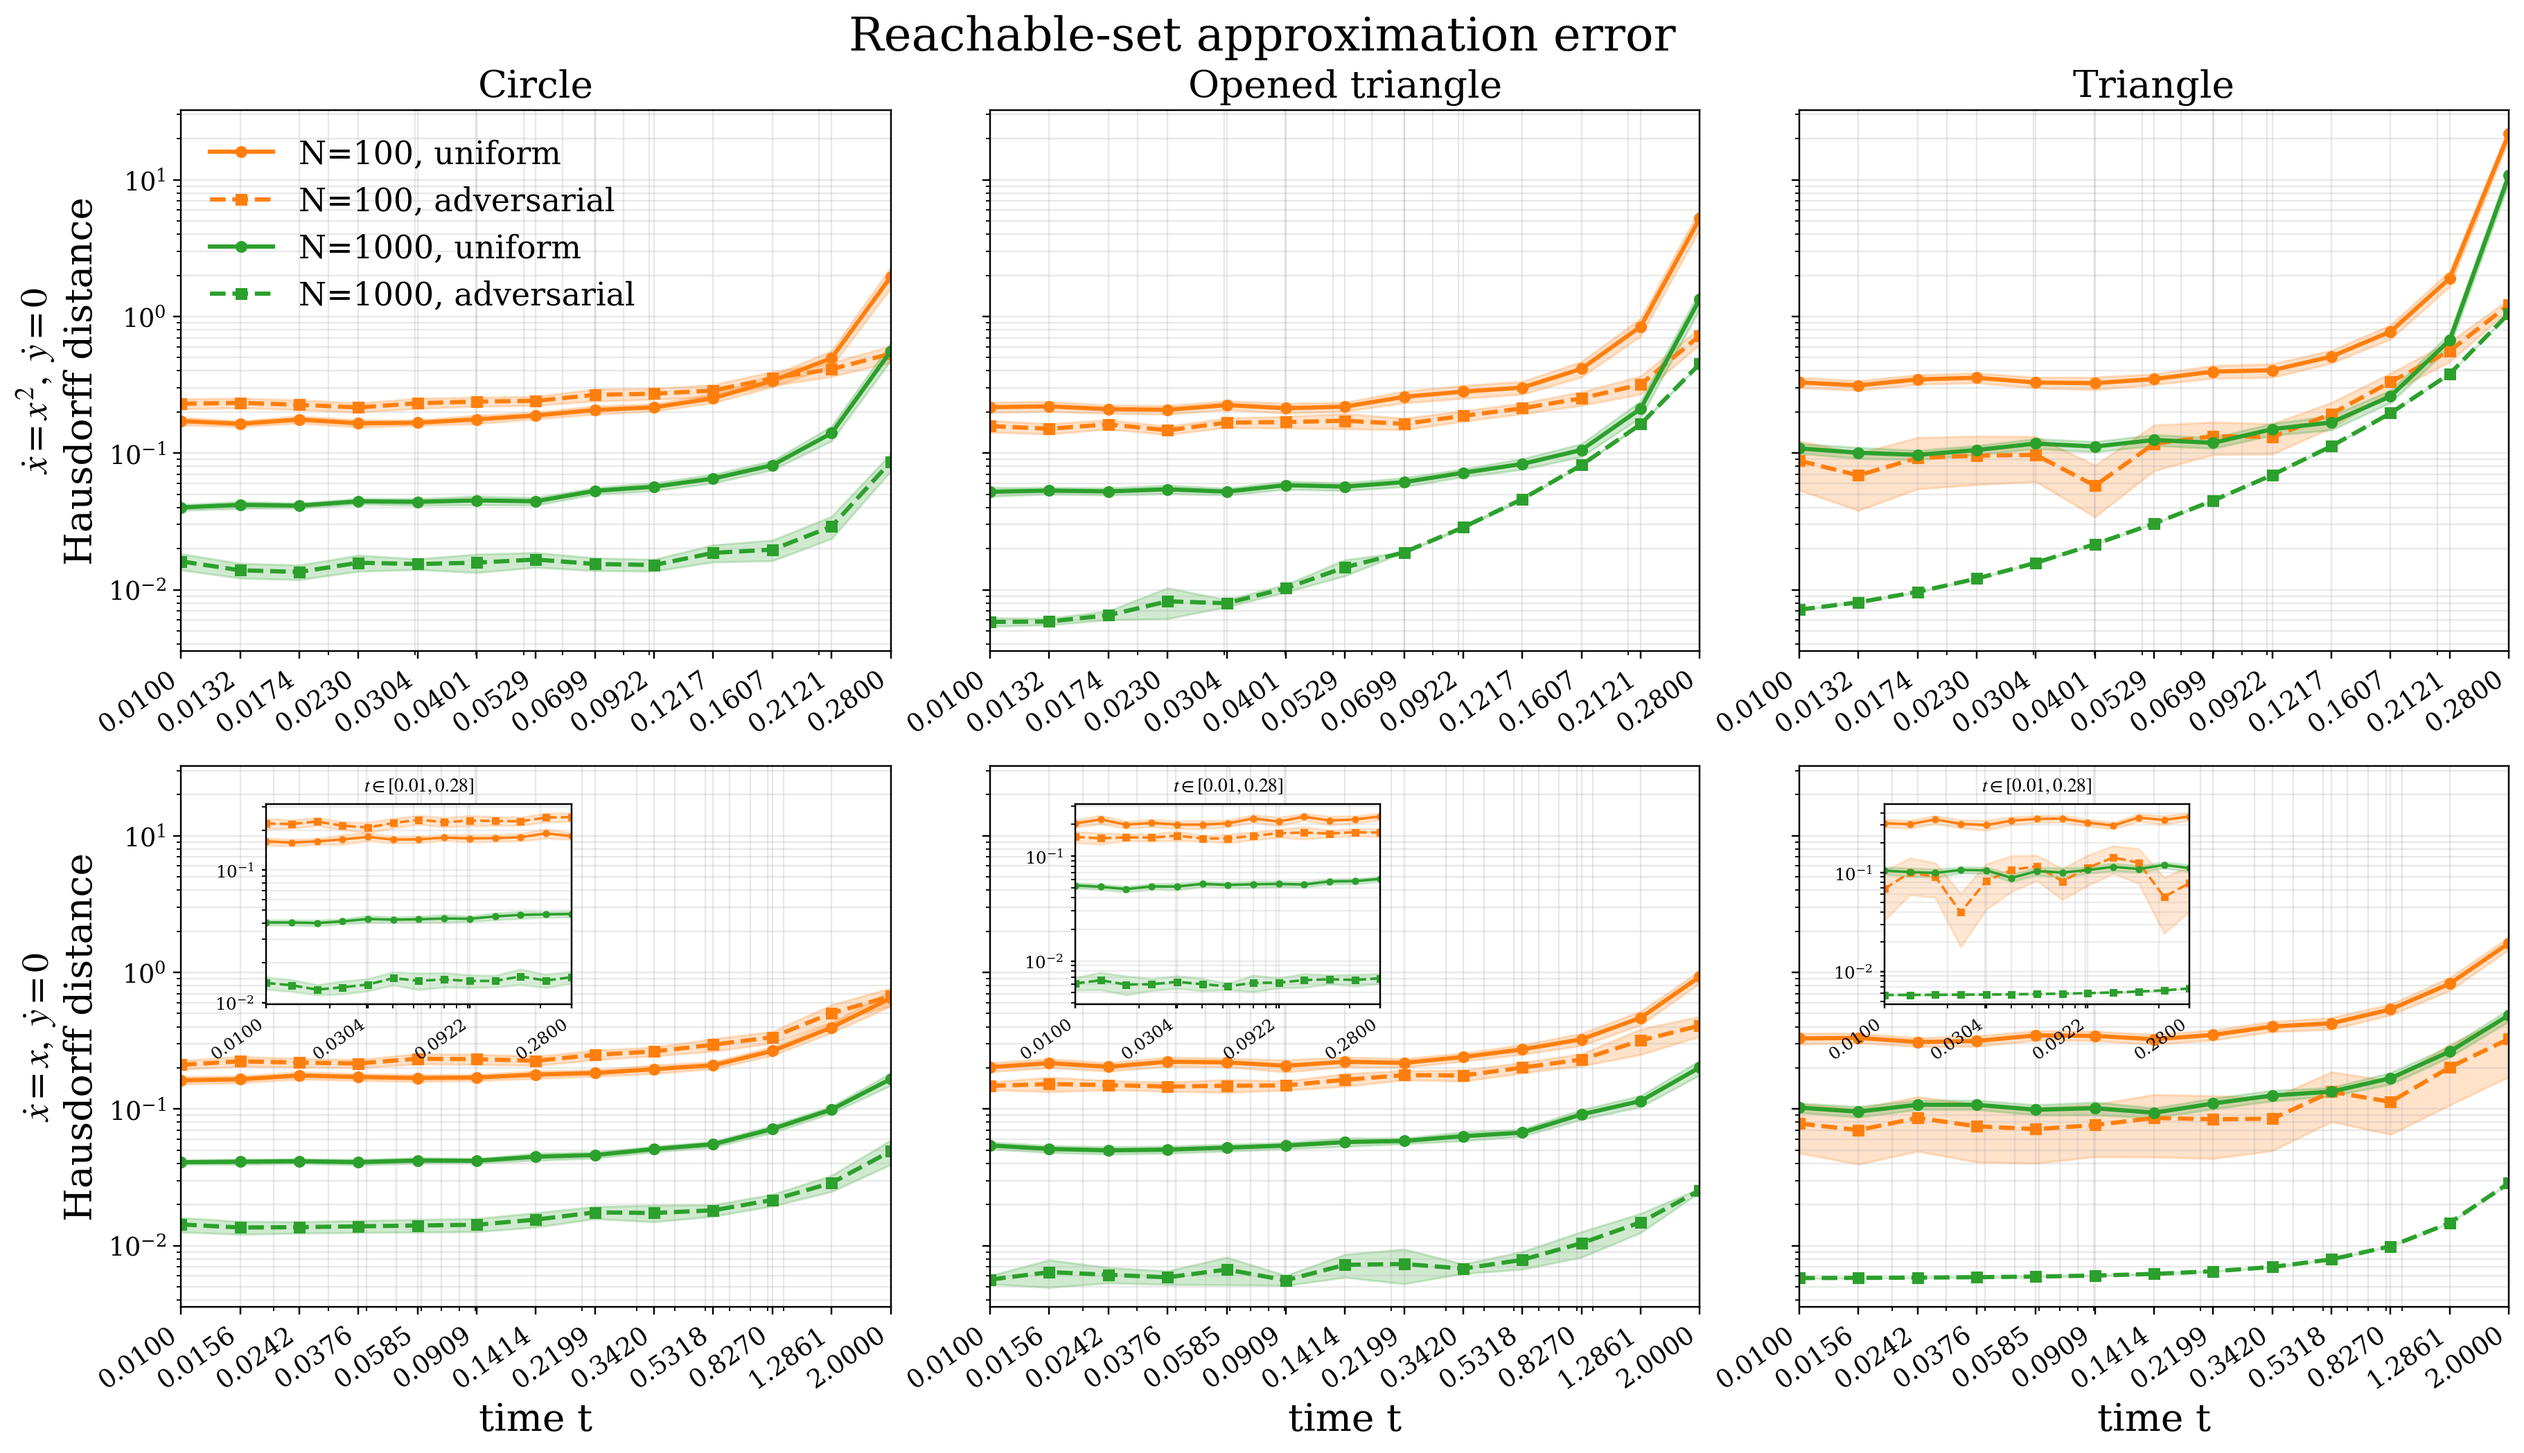
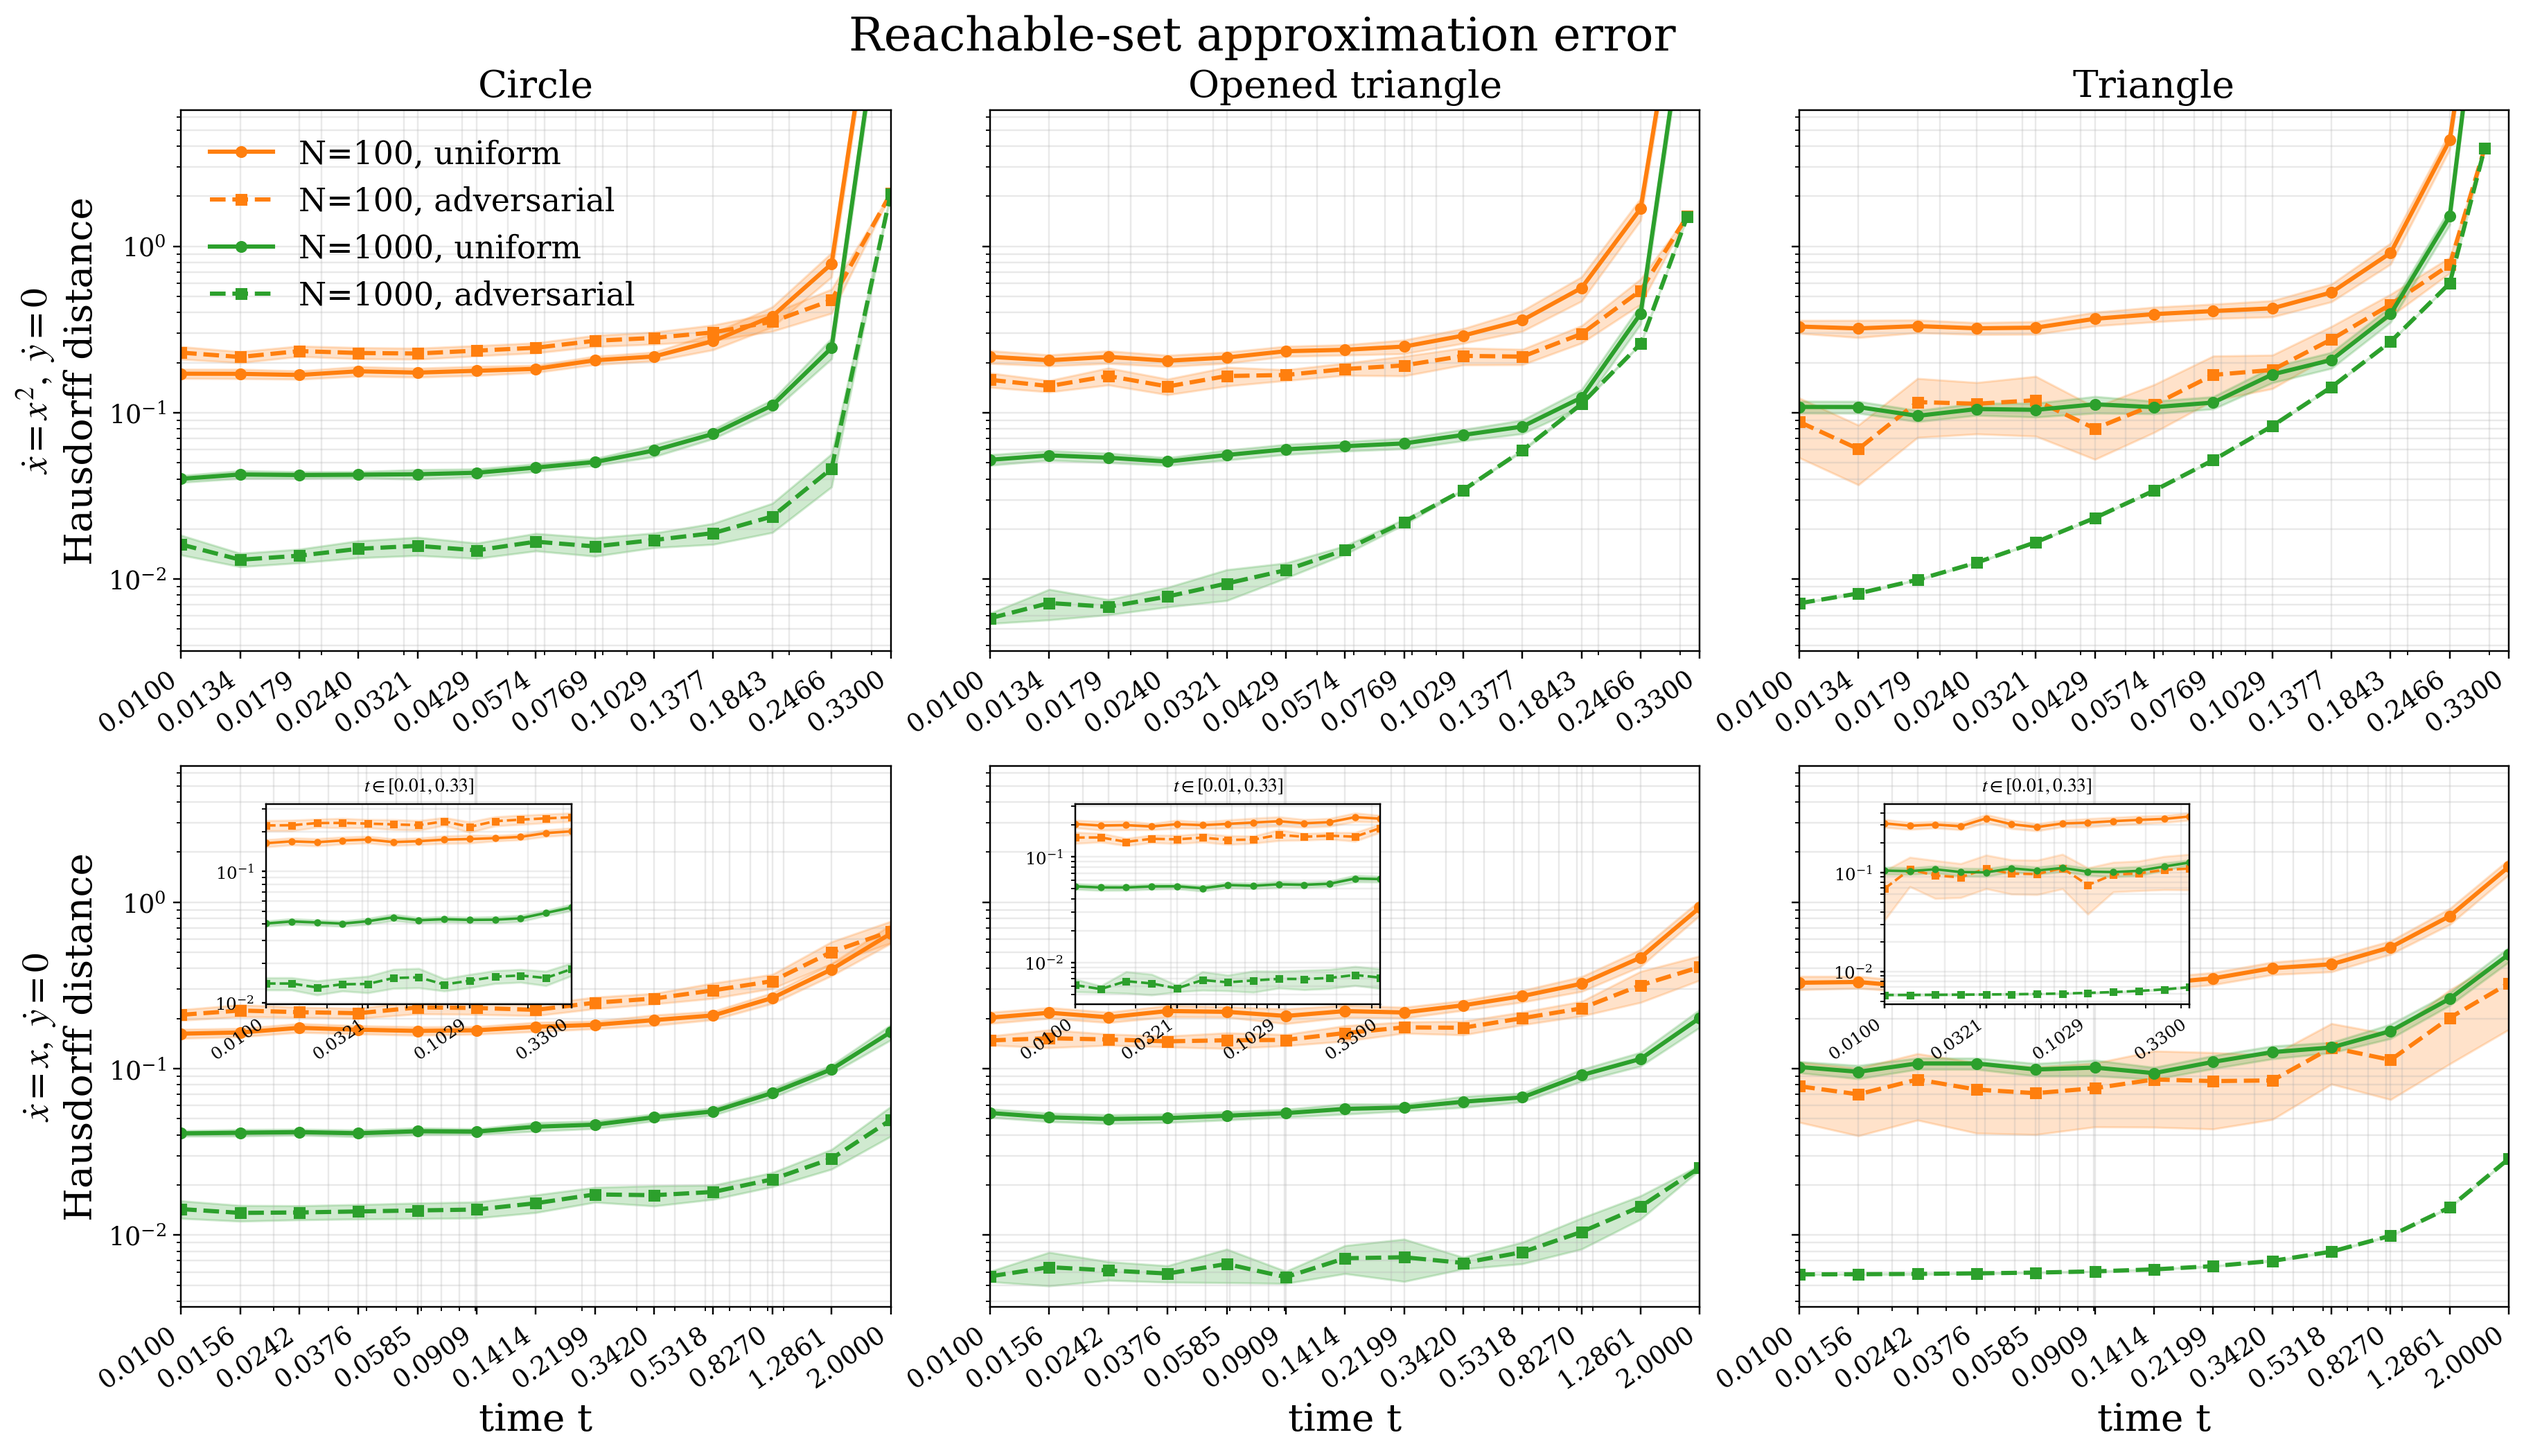
linear dynamic

diff --git a/exp/quaddynadv/quaddyn_adv_experiment.py b/exp/quaddynadv/quaddyn_adv_experiment.py
@@ -23,8 +23,10 @@ from reachapprox import utils as ru
 
 
 SAMPLE_BUDGETS = (100, 1000)
-TIME_GRID = tuple(float(t) for t in np.geomspace(0.01, 0.28, 13))
+TIME_GRID = tuple(float(t) for t in np.geomspace(0.01, 0.33, 13))
 LINEAR_TIME_GRID = tuple(float(t) for t in np.geomspace(0.01, 2.0, 13))
+Y_SCALE_TIME_MAX = 0.28
+NEAR_EXPLOSION_FRACTION = 0.98
 TIME_SWEEP_TRIALS = 50
 REFERENCE_SAMPLES = 60_000
 CHRISTOFFEL_REFERENCE_SAMPLES = 12_000
@@ -87,10 +89,20 @@ def main_time_grid(dynamics: DynamicsSpec) -> tuple[float, ...]:
     return LINEAR_TIME_GRID if dynamics.name == "linear" else TIME_GRID
 
 
-def sweep_time_grids(dynamics: DynamicsSpec) -> tuple[tuple[str, tuple[float, ...]], ...]:
+def add_near_explosion_time(dynamics: DynamicsSpec, item: ru.InitialSet, time_grid: tuple[float, ...]) -> tuple[float, ...]:
+    if dynamics.name != "quadratic" or item.name == "disk":
+        return time_grid
+
+    near_explosion_time = NEAR_EXPLOSION_FRACTION / ru.max_x(item.geom)
+    if near_explosion_time <= max(time_grid) and all(not np.isclose(near_explosion_time, t) for t in time_grid):
+        return tuple(sorted((*time_grid, float(near_explosion_time))))
+    return time_grid
+
+
+def sweep_time_grids(dynamics: DynamicsSpec, item: ru.InitialSet) -> tuple[tuple[str, tuple[float, ...]], ...]:
     if dynamics.name == "linear":
         return (("main", LINEAR_TIME_GRID), ("inset", TIME_GRID))
-    return (("main", TIME_GRID),)
+    return (("main", add_near_explosion_time(dynamics, item, TIME_GRID)),)
 
 
 def ordered_initial_sets() -> list[ru.InitialSet]:
@@ -300,8 +312,16 @@ def fixed_time_comparison(
 def summarize_trials(values: dict[str, np.ndarray]) -> dict[str, tuple[np.ndarray, np.ndarray, np.ndarray]]:
     curves = {}
     for method, arr in values.items():
-        mean = arr.mean(axis=1)
-        stderr = arr.std(axis=1, ddof=1) / np.sqrt(TIME_SWEEP_TRIALS)
+        valid_counts = np.sum(np.isfinite(arr), axis=1)
+        mean = np.full(arr.shape[0], np.nan, dtype=float)
+        stderr = np.full(arr.shape[0], np.nan, dtype=float)
+        valid_rows = valid_counts > 0
+        mean[valid_rows] = np.nanmean(arr[valid_rows], axis=1)
+        multi_sample_rows = valid_counts > 1
+        stderr[multi_sample_rows] = (
+            np.nanstd(arr[multi_sample_rows], axis=1, ddof=1) / np.sqrt(valid_counts[multi_sample_rows])
+        )
+        stderr[valid_counts == 1] = 0.0
         ci = 1.96 * stderr
         curves[method] = (mean, np.maximum(mean - ci, np.finfo(float).tiny), mean + ci)
     return curves
@@ -386,17 +406,23 @@ def run_multi_dynamics_time_sweep_ci(
     for dynamics in dynamics_specs:
         print(f"\nDynamics: {dynamics.label}")
         for item in initial_sets:
-            for grid_name, time_grid in sweep_time_grids(dynamics):
-                reference_boundaries = {
-                    t: transformed_boundary_for_dynamics(dynamics, item.geom, t)
-                    for t in time_grid
-                }
+            for grid_name, time_grid in sweep_time_grids(dynamics, item):
                 for budget in SAMPLE_BUDGETS:
                     values = {
                         "uniform": np.empty((len(time_grid), TIME_SWEEP_TRIALS), dtype=float),
                         "adversarial": np.empty((len(time_grid), TIME_SWEEP_TRIALS), dtype=float),
                     }
                     for t_index, t in enumerate(time_grid):
+                        try:
+                            reference_boundary = transformed_boundary_for_dynamics(dynamics, item.geom, t)
+                        except ValueError:
+                            values["uniform"][t_index, :] = np.nan
+                            values["adversarial"][t_index, :] = np.nan
+                            print(
+                                f"{dynamics.name:<10} {grid_name:<5} {item.label:<16} t={t:.4f} N={budget:<4d} "
+                                "singular; omitted from plot"
+                            )
+                            continue
                         for trial in range(TIME_SWEEP_TRIALS):
                             uniform_rng = np.random.default_rng(
                                 RANDOM_SEED
@@ -419,10 +445,10 @@ def run_multi_dynamics_time_sweep_ci(
                                 adv_rng, item.geom, dynamics, t, budget
                             )
                             values["uniform"][t_index, trial] = approximate_boundary_hausdorff_fast(
-                                reference_boundaries[t], uniform_hull
+                                reference_boundary, uniform_hull
                             )
                             values["adversarial"][t_index, trial] = approximate_boundary_hausdorff_fast(
-                                reference_boundaries[t], adv_hull
+                                reference_boundary, adv_hull
                             )
 
                         print(
@@ -506,17 +532,30 @@ def plot_multi_dynamics_time_sweep_ci(
     y_upper = 0.0
     for dynamics in DYNAMICS_SPECS:
         for item in initial_sets:
+            item_main_time_grid = dict(sweep_time_grids(dynamics, item))["main"]
             for budget in SAMPLE_BUDGETS:
                 for method in method_styles:
                     mean, lo, hi = curves[(dynamics.name, item.name, method, budget, "main")]
-                    y_lower = min(y_lower, float(np.min(lo)), float(np.min(mean)))
-                    y_upper = max(y_upper, float(np.max(hi)), float(np.max(mean)))
+                    time_mask = np.asarray(item_main_time_grid) <= Y_SCALE_TIME_MAX
+                    if dynamics.name == "linear":
+                        time_mask = np.ones_like(time_mask, dtype=bool)
+                    y_lower = min(y_lower, float(np.min(lo[time_mask])), float(np.min(mean[time_mask])))
+                    y_upper = max(y_upper, float(np.max(hi[time_mask])), float(np.max(mean[time_mask])))
                     if dynamics.name == "linear":
                         inset_mean, inset_lo, inset_hi = curves[
                             (dynamics.name, item.name, method, budget, "inset")
                         ]
-                        y_lower = min(y_lower, float(np.min(inset_lo)), float(np.min(inset_mean)))
-                        y_upper = max(y_upper, float(np.max(inset_hi)), float(np.max(inset_mean)))
+                        inset_time_mask = np.asarray(TIME_GRID) <= Y_SCALE_TIME_MAX
+                        y_lower = min(
+                            y_lower,
+                            float(np.min(inset_lo[inset_time_mask])),
+                            float(np.min(inset_mean[inset_time_mask])),
+                        )
+                        y_upper = max(
+                            y_upper,
+                            float(np.max(inset_hi[inset_time_mask])),
+                            float(np.max(inset_mean[inset_time_mask])),
+                        )
 
     y_lower = max(y_lower * 0.75, np.finfo(float).tiny)
     y_upper = y_upper * 1.35
@@ -524,8 +563,9 @@ def plot_multi_dynamics_time_sweep_ci(
     legend_handles = []
     legend_labels = []
     for row, dynamics in enumerate(DYNAMICS_SPECS):
-        time_grid = main_time_grid(dynamics)
         for col, item in enumerate(initial_sets):
+            time_grid = dict(sweep_time_grids(dynamics, item))["main"]
+            tick_time_grid = main_time_grid(dynamics)
             ax = axes[row, col]
             for budget in SAMPLE_BUDGETS:
                 color = sample_colors[budget]
@@ -550,8 +590,8 @@ def plot_multi_dynamics_time_sweep_ci(
             ax.set_yscale("log")
             ax.set_xlim(min(time_grid), max(time_grid))
             ax.set_ylim(y_lower, y_upper)
-            ax.set_xticks(time_grid)
-            ax.set_xticklabels([f"{t:.4f}" for t in time_grid], rotation=35, ha="right", fontsize=TICK_SIZE)
+            ax.set_xticks(tick_time_grid)
+            ax.set_xticklabels([f"{t:.4f}" for t in tick_time_grid], rotation=35, ha="right", fontsize=TICK_SIZE)
             ax.grid(True, which="both", alpha=0.28)
             ax.tick_params(axis="both", which="both", labelsize=TICK_SIZE)
             ax.tick_params(axis="y", which="both", labelleft=(col == 0))
@@ -592,7 +632,7 @@ def plot_multi_dynamics_time_sweep_ci(
                 inset.tick_params(axis="y", which="both", labelsize=8)
                 inset.tick_params(axis="both", which="both", length=2.0)
                 inset.grid(True, which="both", alpha=0.22)
-                inset.set_title(r"$t\in[0.01,0.28]$", fontsize=9)
+                inset.set_title(r"$t\in[0.01,0.33]$", fontsize=9)
 
     axes[0, 0].legend(
         legend_handles,
